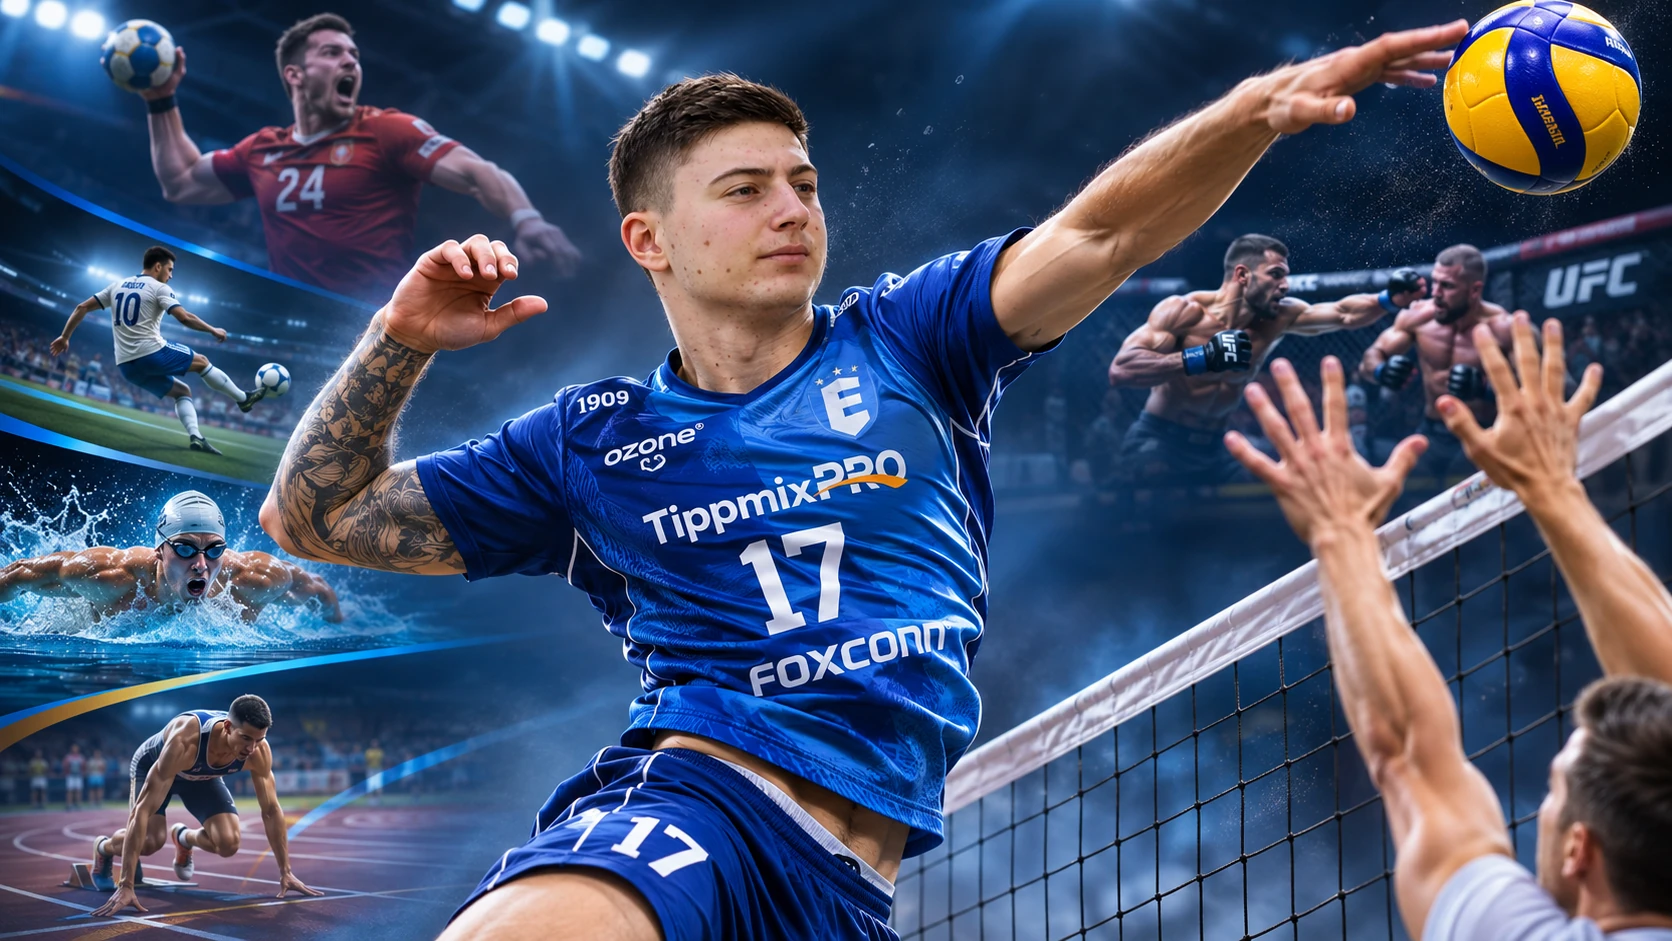
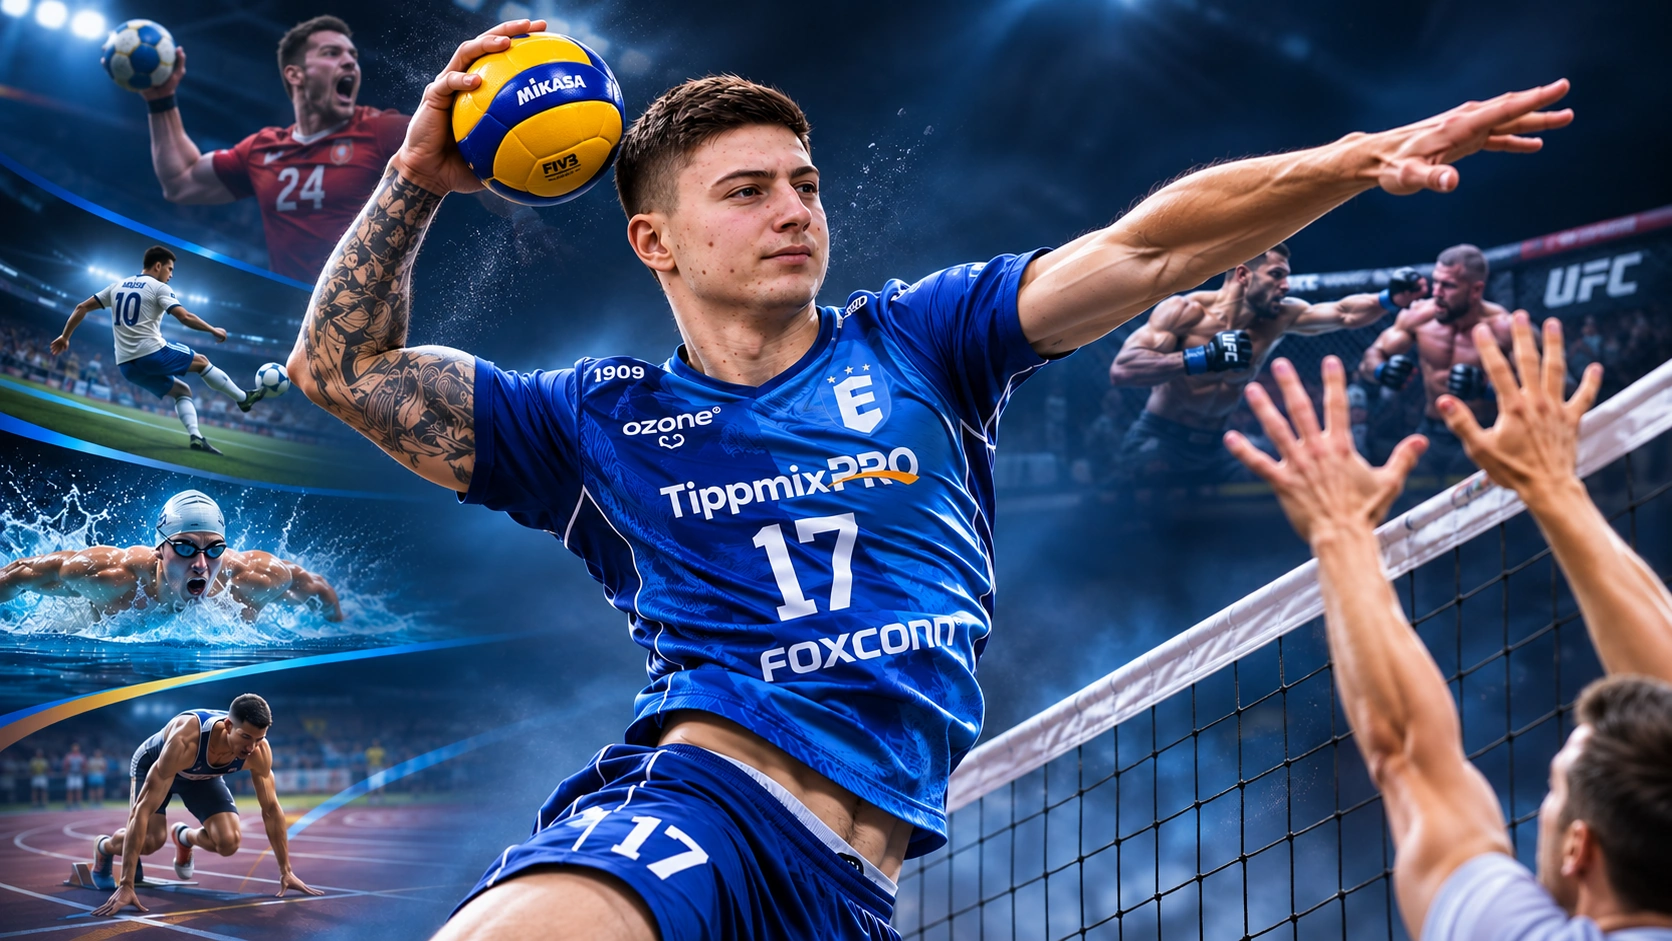
fix(sho-sport): replace Hero with corrected volleyball spike artwork and refresh cache

diff --git a/sh9/sport/index.html b/sh9/sport/index.html
@@ -37,7 +37,7 @@ a:focus-visible,button:focus-visible{outline:2px solid #8cc4ff;outline-offset:2p
 <body>
 <main class="sport-shell" aria-label="SHO Sport Central">
  <header class="sport-hero" aria-label="Sport Hero teljes kép">
-  <img class="sport-hero-art" src="./SHO_Sport_hero_1672x941.webp?v=4" width="1672" height="941" alt="Sportmontázs: röplabda, kézilabda, labdarúgás, úszás, futás és küzdősport">
+  <img class="sport-hero-art" src="./SHO_Sport_hero_1672x941.webp?v=5" width="1672" height="941" alt="Sportmontázs: röplabda, kézilabda, labdarúgás, úszás, futás és küzdősport">
   <nav class="sport-menu" aria-label="Sport gyorsmenü">
    <button type="button" data-sport-nav="program" class="is-active" aria-pressed="true">Műsor</button>
    <button type="button" data-sport-nav="favorites" aria-pressed="false">Kedvencek</button>
